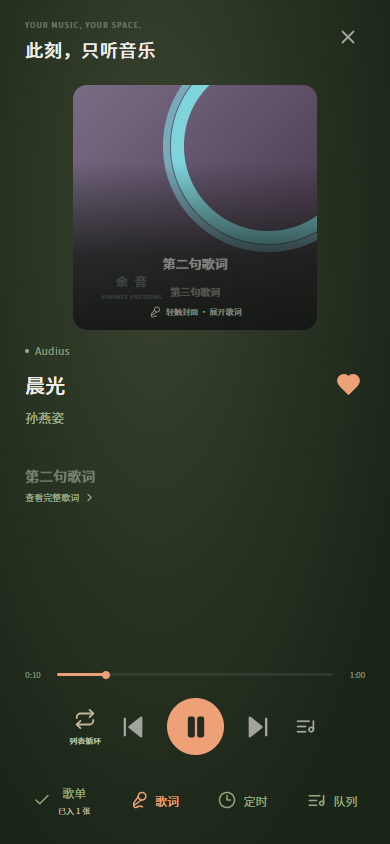
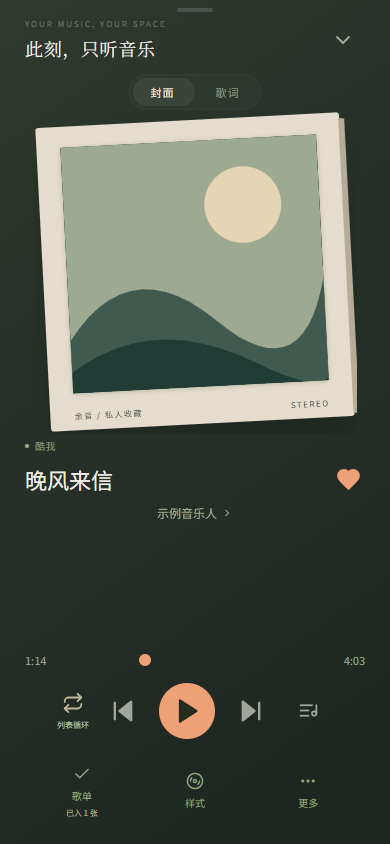
docs: refresh aggregate search and quiet player screenshots

diff --git a/README.md b/README.md
@@ -7,23 +7,25 @@
 ## 主要功能
 
 - 发现音乐：网易榜单、常听歌手推荐与 Audius 独立音乐。
-- 网易、酷狗、QQ、咪咕、酷我与 Audius 多来源搜索、歌手作品和历史；保留原歌手和版本，受限条目明确标记。
-- 搜索陆续追加与继续翻页，已显示歌曲保持位置；封面按需加载，播放器支持连贯开合和下拉回落。
-- 播放与下载分别选择音质，显示实际音频检测，公开档位不足时明确提示。
-- 独立音乐库：收藏、最近播放、个人歌单和本地音频。
+- 默认聚合网易、酷狗、QQ、咪咕、酷我与 Audius 搜索；核对同一录音后合并重复项，失败时自动尝试其他来源，也可手动指定渠道。
+- 搜索结果支持综合推荐、相关度与近期榜单热度；图标平滑展开为输入框，支持分页与搜索历史。热度参考网易飙升榜和热歌榜，标明更新日期。
+- 播放与下载分别选择音质；自动选择可播放的品质，技术信息按需展开，听歌时少些打扰。
+- 独立音乐库：收藏、最近播放、个人歌单和本地音频；歌单内默认最近添加在前，保留多种排序和原始顺序。
+- Android 下载保存到 Music/余音，支持旧下载迁移与离线读取。
 - 播放队列、「下一首播放」、调整顺序、随机与循环；恢复上次歌曲和进度，启动保持暂停。
 - 原生后台与锁屏播放、系统媒体控制、歌词跟随/导入和睡眠定时。
 - 日/月/年听歌手记、本机资料备份与恢复、应用内检查更新。
 
 ## 界面预览
 
-音乐库和播放器使用演示歌曲与歌单；桌面发现页来自 0.7.0 的真实联网验证。以下均为 Web 界面截图，Android 沿用同一套界面。
+手机截图使用 1.6 界面和合成演示资料，均为 Web 视口截图；Android 沿用相同界面。下方桌面发现图保留自早期版本。
 
 <table>
-  <tr><th>我的音乐</th><th>播放器与歌词</th></tr>
+  <tr><th>聚合搜索</th><th>我的音乐</th><th>播放器</th></tr>
   <tr>
-    <td><img src="images/library.png" alt="余音：收藏、最近播放与个人歌单" width="300"></td>
-    <td><img src="images/player.png" alt="余音：封面、歌词、播放模式与队列入口" width="300"></td>
+    <td><img src="images/search.png" alt="余音：同曲聚合与清楚的渠道选择" width="260"></td>
+    <td><img src="images/library.png" alt="余音：收藏、最近播放与个人歌单" width="260"></td>
+    <td><img src="images/player.png" alt="余音：封面、歌词、播放模式与队列入口" width="260"></td>
   </tr>
 </table>
 
@@ -39,7 +41,7 @@
 
 使用网易 · [GD音乐台](https://music.gdstudio.xyz)、酷我、咪咕与 Audius 等来源，部分歌曲由 [pdone/lx-music-source 收录的 Huibq 接口](https://github.com/pdone/lx-music-source)解析；歌词也使用 LRCLIB。GD 服务声明 CC BY-NC 4.0，仅供个人非商业使用。
 
-在线播放需要手机能访问曲库、解析、音频与歌词服务，应用更新需要访问 GitHub；APK 不需要电脑在线。第三方服务可能缺歌、限流或失效，不保证所有作品、VIP 歌曲、无损音质或永久可用。请求档位与实际检测音质分别显示。
+在线播放需要手机能访问曲库、解析、音频与歌词服务，应用更新需要访问 GitHub；APK 不需要电脑在线。第三方服务可能缺歌、限流或失效，不保证所有作品、VIP 歌曲、无损音质或永久可用。详细音频参数保留在主动展开的详情中。
 
 本地音频可离线播放，原文件需要保留。资料备份包含收藏、歌单、设置及听歌记录，**不包含音频文件**；换设备后需要重新导入本地音频。在线播放不主动下载整首音频，目前没有账号或跨设备同步。
 
